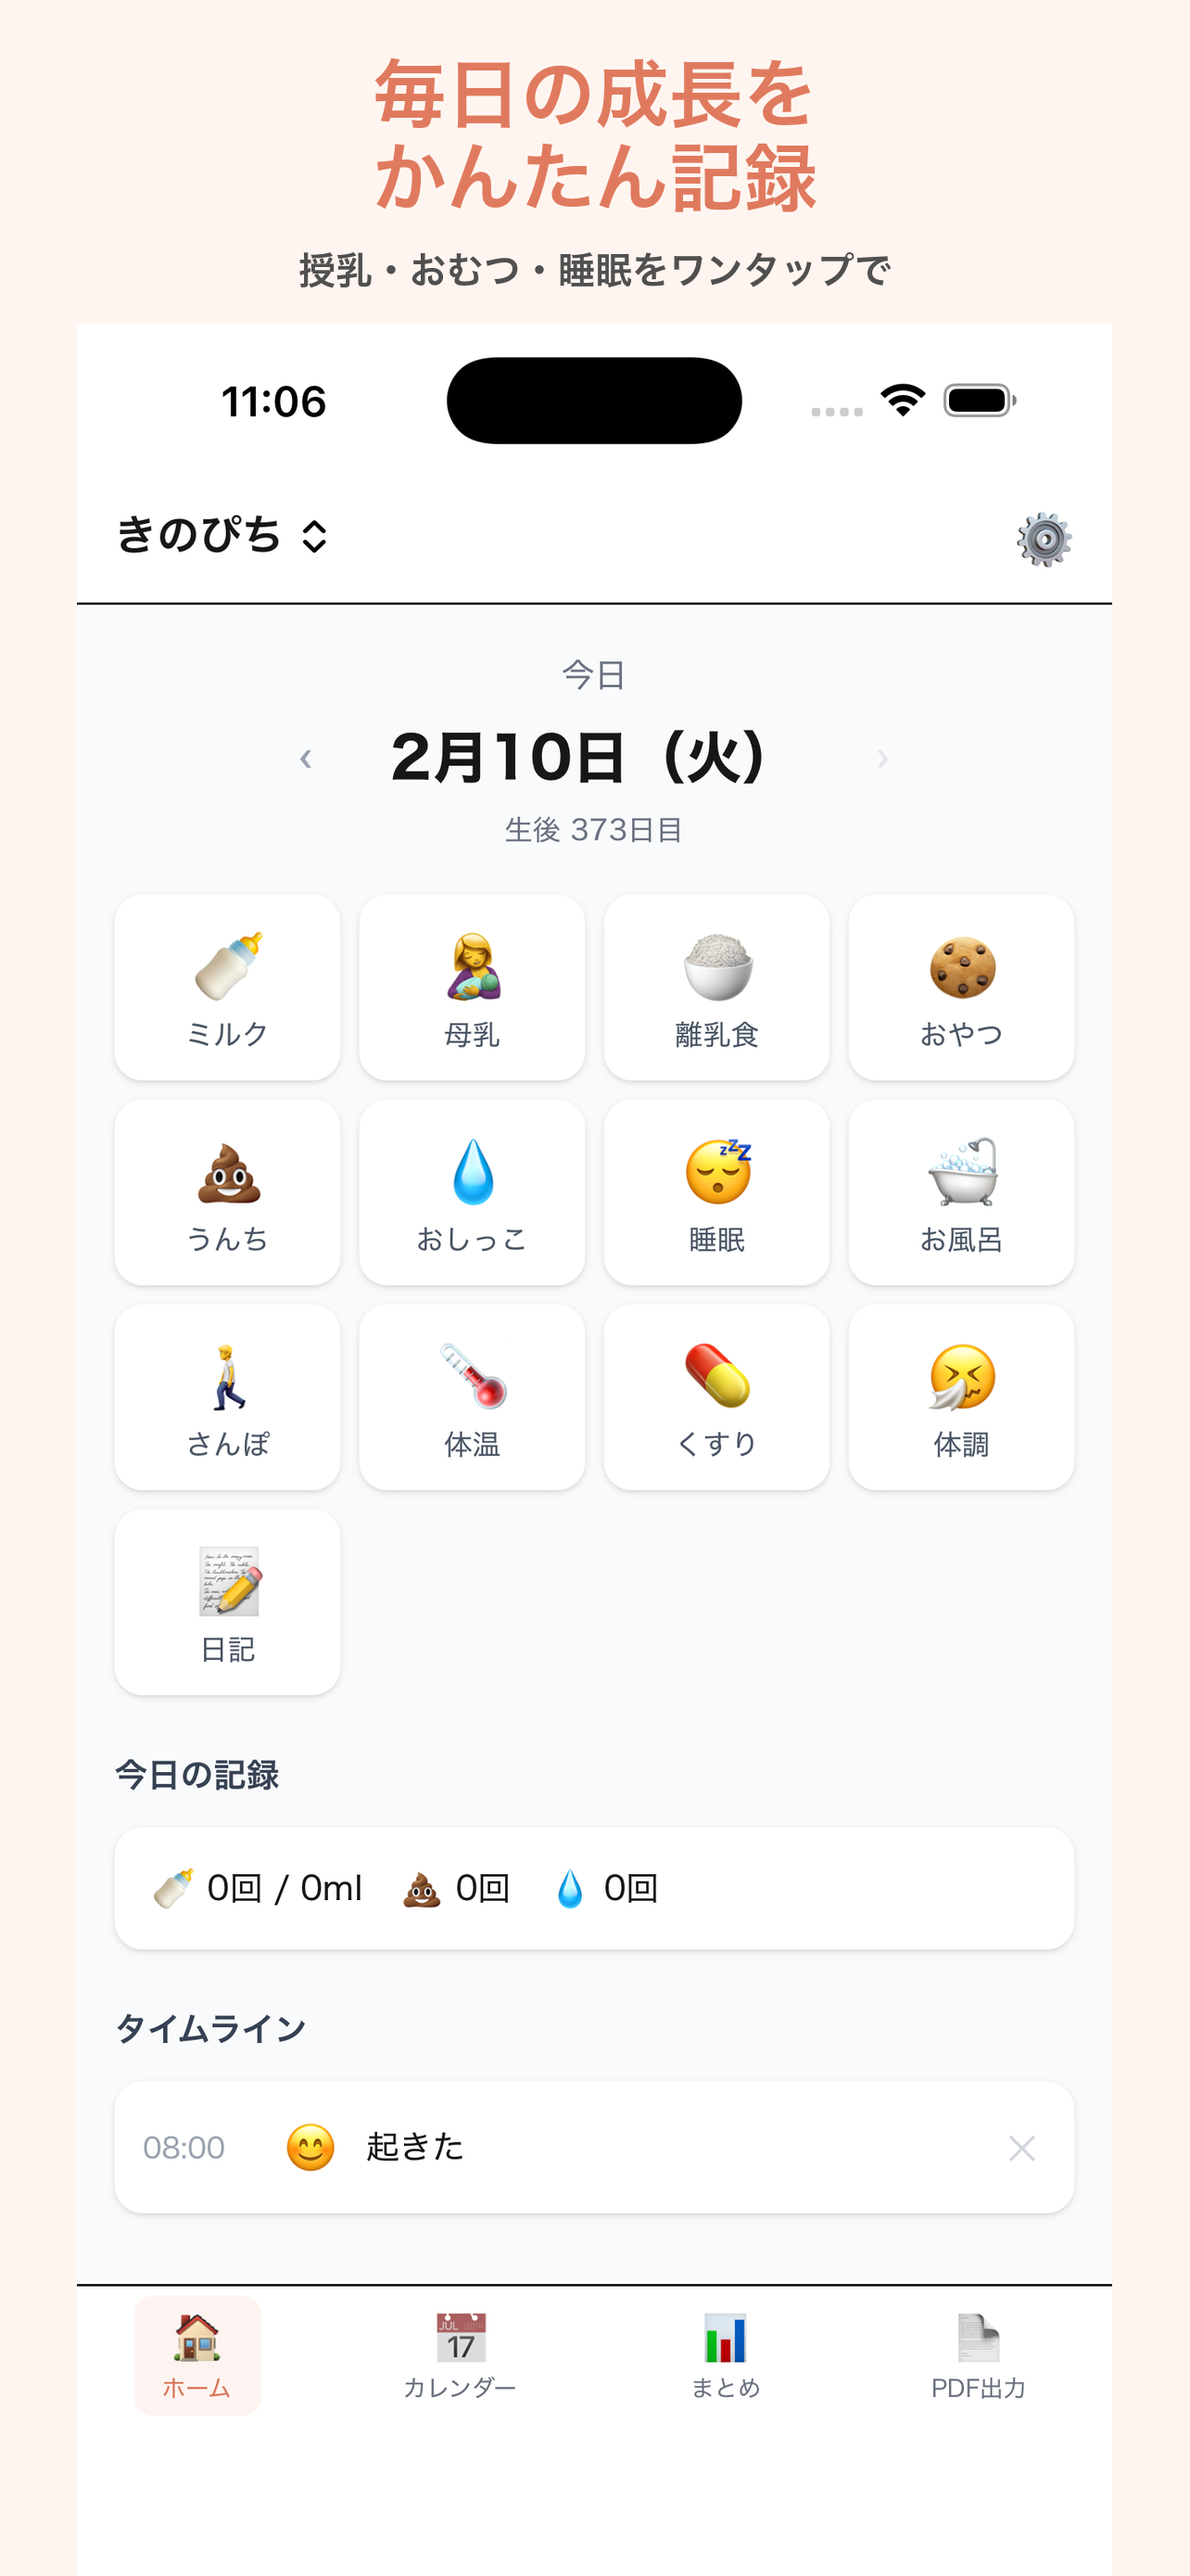
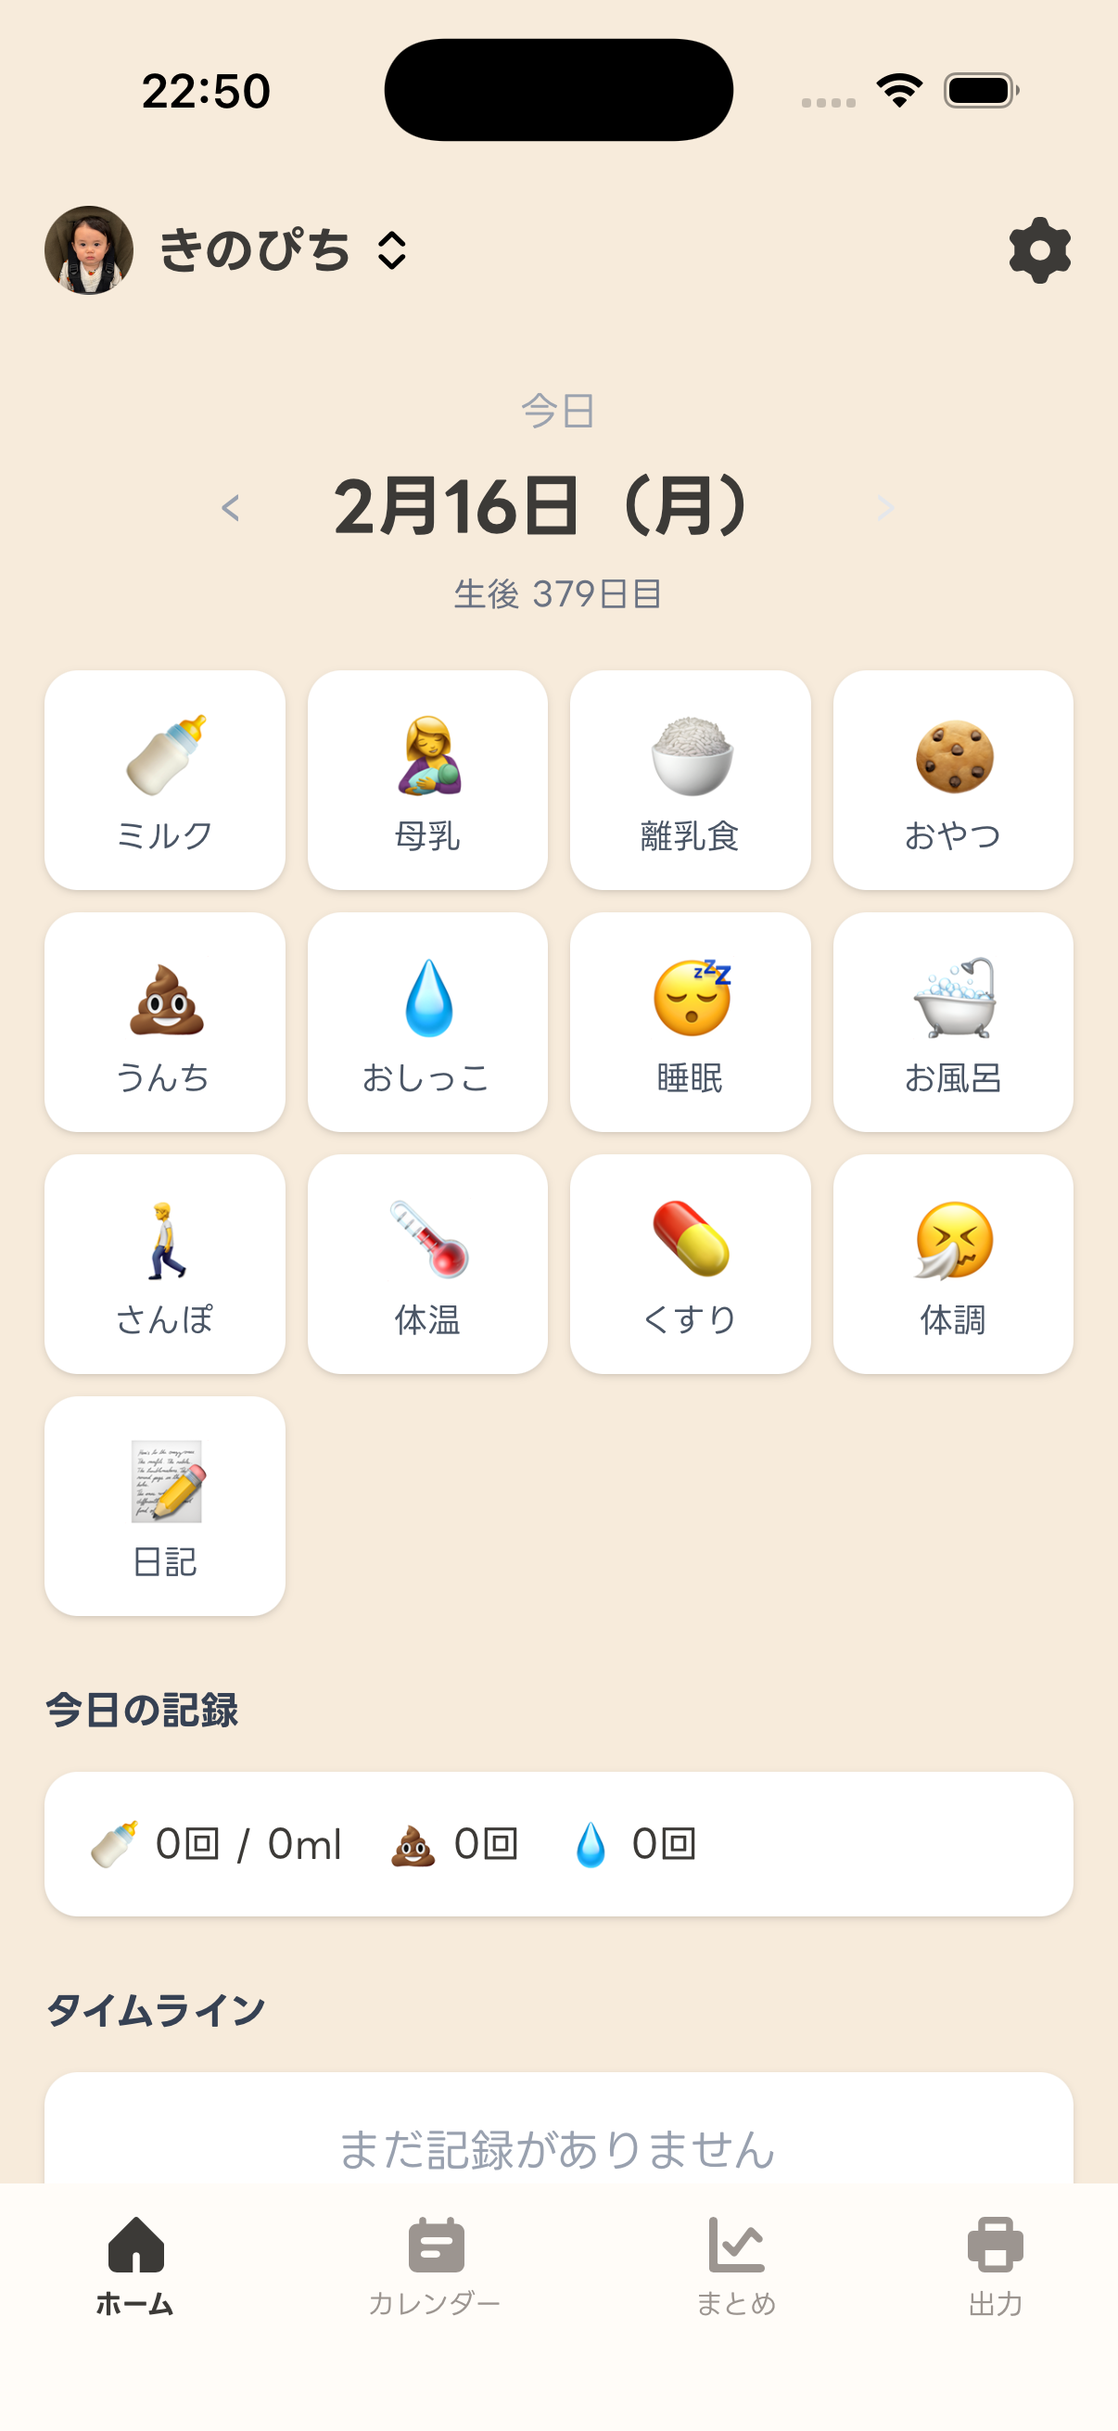
Update screenshots, reduce font weights across all pages
- Replace screenshots with latest iPhone 17 Pro captures
- Add dark mode screenshot (08_darkmode.png)
- Reduce font-weight from 900 to 700 for headings
- Reduce font-weight from 700 to 600/500 for buttons and labels
- Apply consistent font weights to privacy, email-confirmed, password-reset pages
- Ignore capture source folder in .gitignore

diff --git a/src/app/page.tsx b/src/app/page.tsx
@@ -17,12 +17,13 @@ const features = [
 
 const screenshots = [
   { src: "/screenshots/01_home.png", label: "ホーム" },
-  { src: "/screenshots/03_timeline.png", label: "タイムライン" },
-  { src: "/screenshots/02_calendar.png", label: "カレンダー" },
-  { src: "/screenshots/04_summary.png", label: "まとめ" },
-  { src: "/screenshots/06_breastfeeding.png", label: "授乳記録" },
-  { src: "/screenshots/07_diary.png", label: "日記" },
-  { src: "/screenshots/05_pdf.png", label: "PDF出力" },
+  { src: "/screenshots/02_timeline.png", label: "タイムライン" },
+  { src: "/screenshots/03_breastfeeding.png", label: "授乳タイマー" },
+  { src: "/screenshots/05_calendar.png", label: "カレンダー" },
+  { src: "/screenshots/06_summary.png", label: "まとめ" },
+  { src: "/screenshots/04_diary.png", label: "日記" },
+  { src: "/screenshots/07_pdf.png", label: "PDF出力" },
+  { src: "/screenshots/08_darkmode.png", label: "ダークモード" },
 ];
 
 export default function HomePage() {
@@ -33,21 +34,21 @@ export default function HomePage() {
         .header { background: #fff; padding: 16px 0; position: fixed; top: 0; left: 0; right: 0; z-index: 100; border-bottom: 1px solid rgba(0,0,0,0.05); }
         .container { max-width: 1100px; margin: 0 auto; padding: 0 24px; }
         .header-inner { display: flex; justify-content: space-between; align-items: center; }
-        .logo { display: flex; align-items: center; gap: 12px; font-size: 1.4rem; font-weight: 900; color: #D97757; }
+        .logo { display: flex; align-items: center; gap: 12px; font-size: 1.4rem; font-weight: 700; color: #D97757; }
         .logo-icon { width: 40px; height: 40px; background: linear-gradient(135deg, #D97757 0%, #FFB088 100%); border-radius: 12px; display: flex; align-items: center; justify-content: center; font-size: 1.2rem; }
         nav { display: flex; gap: 32px; }
-        nav a { color: #636E72; font-weight: 700; font-size: 0.95rem; transition: color 0.2s; }
+        nav a { color: #636E72; font-weight: 500; font-size: 0.95rem; transition: color 0.2s; }
         nav a:hover { color: #D97757; }
-        .header-cta { background: #D97757; color: #fff; padding: 10px 24px; border-radius: 12px; font-weight: 700; font-size: 0.9rem; transition: transform 0.2s, box-shadow 0.2s; display: inline-block; }
+        .header-cta { background: #D97757; color: #fff; padding: 10px 24px; border-radius: 12px; font-weight: 600; font-size: 0.9rem; transition: transform 0.2s, box-shadow 0.2s; display: inline-block; }
         .header-cta:hover { transform: translateY(-2px); box-shadow: 0 4px 6px -1px rgba(0,0,0,0.1); }
         .hero { background: linear-gradient(180deg, #FFF9F7 0%, #fff 100%); padding: 160px 0 100px; position: relative; overflow: hidden; }
         .hero-content { display: flex; align-items: center; gap: 60px; position: relative; z-index: 1; }
         .hero-text { flex: 1; }
-        .hero-badge { display: inline-flex; align-items: center; gap: 8px; background: #fff; border: 2px solid #D97757; color: #D97757; padding: 8px 16px; border-radius: 50px; font-size: 0.85rem; font-weight: 700; margin-bottom: 24px; }
-        .hero h1 { font-size: 3.2rem; font-weight: 900; line-height: 1.3; margin-bottom: 24px; }
+        .hero-badge { display: inline-flex; align-items: center; gap: 8px; background: #fff; border: 2px solid #D97757; color: #D97757; padding: 8px 16px; border-radius: 50px; font-size: 0.85rem; font-weight: 600; margin-bottom: 24px; }
+        .hero h1 { font-size: 3.2rem; font-weight: 700; line-height: 1.3; margin-bottom: 24px; }
         .hero h1 .hl { color: #D97757; }
         .hero-desc { font-size: 1.2rem; color: #636E72; margin-bottom: 40px; max-width: 480px; }
-        .btn-primary { display: inline-flex; align-items: center; gap: 8px; background: #D97757; color: #fff; padding: 16px 32px; border-radius: 16px; font-weight: 700; font-size: 1.1rem; transition: transform 0.2s, box-shadow 0.2s; box-shadow: 0 4px 0 #C4684A; }
+        .btn-primary { display: inline-flex; align-items: center; gap: 8px; background: #D97757; color: #fff; padding: 16px 32px; border-radius: 16px; font-weight: 600; font-size: 1.1rem; transition: transform 0.2s, box-shadow 0.2s; box-shadow: 0 4px 0 #C4684A; }
         .btn-primary:hover { transform: translateY(-2px); box-shadow: 0 6px 0 #C4684A; }
         .hero-phone { flex: 0 0 320px; }
         .phone-mockup { position: relative; }
@@ -55,35 +56,35 @@ export default function HomePage() {
         .phone-mockup::before { content: ''; position: absolute; top: -20px; left: -20px; right: -20px; bottom: -20px; background: linear-gradient(135deg, #D97757 0%, #FFB088 100%); border-radius: 50px; z-index: -1; opacity: 0.2; }
         .features { padding: 120px 0; background: #fff; }
         .section-header { text-align: center; margin-bottom: 80px; }
-        .section-label { display: inline-block; background: #FFF9F7; color: #D97757; padding: 8px 20px; border-radius: 50px; font-size: 0.9rem; font-weight: 700; margin-bottom: 16px; }
-        .section-header h2 { font-size: 2.5rem; font-weight: 900; margin-bottom: 16px; }
+        .section-label { display: inline-block; background: #FFF9F7; color: #D97757; padding: 8px 20px; border-radius: 50px; font-size: 0.9rem; font-weight: 600; margin-bottom: 16px; }
+        .section-header h2 { font-size: 2.5rem; font-weight: 700; margin-bottom: 16px; }
         .section-header p { color: #636E72; font-size: 1.1rem; }
         .feature-grid { display: grid; grid-template-columns: repeat(2, 1fr); gap: 40px; }
         .feature-card { display: flex; gap: 24px; padding: 32px; background: #FFF9F7; border-radius: 24px; transition: transform 0.3s, box-shadow 0.3s; }
         .feature-card:hover { transform: translateY(-4px); box-shadow: 0 20px 25px -5px rgba(0,0,0,0.1); }
         .feature-icon { flex: 0 0 64px; height: 64px; background: #fff; border-radius: 16px; display: flex; align-items: center; justify-content: center; font-size: 2rem; box-shadow: 0 4px 6px -1px rgba(0,0,0,0.1); }
-        .feature-content h3 { font-size: 1.3rem; font-weight: 700; margin-bottom: 8px; }
+        .feature-content h3 { font-size: 1.3rem; font-weight: 600; margin-bottom: 8px; }
         .feature-content p { color: #636E72; font-size: 0.95rem; }
         .screenshots { padding: 120px 0; background: linear-gradient(180deg, #FFF9F7 0%, #fff 100%); }
         .screenshot-carousel { display: flex; gap: 24px; overflow-x: auto; padding: 40px 0; scroll-snap-type: x mandatory; -webkit-overflow-scrolling: touch; scrollbar-width: none; }
         .screenshot-item { flex: 0 0 280px; scroll-snap-align: center; }
         .screenshot-item img { width: 100%; border-radius: 32px; box-shadow: 0 20px 25px -5px rgba(0,0,0,0.1); transition: transform 0.3s; }
         .screenshot-item:hover img { transform: scale(1.02); }
-        .screenshot-item p { text-align: center; margin-top: 16px; font-weight: 700; color: #636E72; }
+        .screenshot-item p { text-align: center; margin-top: 16px; font-weight: 500; color: #636E72; }
         .cta { padding: 100px 0; background: linear-gradient(135deg, #D97757 0%, #E8967E 100%); text-align: center; color: #fff; }
-        .cta h2 { font-size: 2.5rem; font-weight: 900; margin-bottom: 16px; }
+        .cta h2 { font-size: 2.5rem; font-weight: 700; margin-bottom: 16px; }
         .cta p { font-size: 1.2rem; opacity: 0.9; margin-bottom: 40px; }
         .cta .btn-primary { background: #fff; color: #D97757; box-shadow: 0 4px 0 rgba(0,0,0,0.1); }
         .support { padding: 100px 0; background: #fff; }
         .support-card { max-width: 600px; margin: 0 auto; text-align: center; background: #FFF9F7; padding: 60px 40px; border-radius: 32px; }
         .support-icon { width: 80px; height: 80px; background: #fff; border-radius: 20px; display: flex; align-items: center; justify-content: center; font-size: 2.5rem; margin: 0 auto 24px; box-shadow: 0 4px 6px -1px rgba(0,0,0,0.1); }
-        .support-card h2 { font-size: 2rem; font-weight: 900; margin-bottom: 16px; }
+        .support-card h2 { font-size: 2rem; font-weight: 700; margin-bottom: 16px; }
         .support-card p { color: #636E72; margin-bottom: 32px; }
-        .support-email { display: inline-flex; align-items: center; gap: 8px; background: #D97757; color: #fff; padding: 16px 32px; border-radius: 16px; font-weight: 700; transition: transform 0.2s; box-shadow: 0 4px 0 #C4684A; }
+        .support-email { display: inline-flex; align-items: center; gap: 8px; background: #D97757; color: #fff; padding: 16px 32px; border-radius: 16px; font-weight: 600; transition: transform 0.2s; box-shadow: 0 4px 0 #C4684A; }
         .support-email:hover { transform: translateY(-2px); }
         footer { background: #2D3436; color: rgba(255,255,255,0.7); padding: 60px 0 40px; }
         .footer-content { display: flex; justify-content: space-between; align-items: center; margin-bottom: 40px; }
-        .footer-logo { display: flex; align-items: center; gap: 12px; font-size: 1.2rem; font-weight: 900; color: #fff; }
+        .footer-logo { display: flex; align-items: center; gap: 12px; font-size: 1.2rem; font-weight: 700; color: #fff; }
         .footer-links { display: flex; gap: 32px; }
         .footer-links a { color: rgba(255,255,255,0.7); font-size: 0.9rem; transition: color 0.2s; }
         .footer-links a:hover { color: #fff; }

diff --git a/src/app/privacy/page.tsx b/src/app/privacy/page.tsx
@@ -11,11 +11,11 @@ export default function PrivacyPage() {
       <style>{`
         .prv-header { background: #fff; border-bottom: 1px solid rgba(0,0,0,0.05); }
         .prv-header-inner { max-width: 800px; margin: 0 auto; padding: 0 24px; height: 64px; display: flex; align-items: center; }
-        .prv-logo { display: flex; align-items: center; gap: 12px; color: #D97757; font-weight: 900; font-size: 1.25rem; }
+        .prv-logo { display: flex; align-items: center; gap: 12px; color: #D97757; font-weight: 700; font-size: 1.25rem; }
         .prv-logo-icon { width: 40px; height: 40px; background: linear-gradient(135deg, #D97757 0%, #FFB088 100%); border-radius: 12px; display: flex; align-items: center; justify-content: center; font-size: 1.2rem; }
         .prv-main { padding: 64px 0 96px; background: #FFF9F7; }
         .prv-container { max-width: 700px; margin: 0 auto; padding: 0 24px; }
-        .prv-main h1 { font-size: 1.875rem; font-weight: 900; text-align: center; margin-bottom: 48px; }
+        .prv-main h1 { font-size: 1.875rem; font-weight: 700; text-align: center; margin-bottom: 48px; }
         .prv-card { background: #fff; border-radius: 24px; padding: 40px 48px; box-shadow: 0 1px 3px rgba(0,0,0,0.1); }
         .prv-card p { color: #636E72; margin-bottom: 16px; }
         .prv-section { margin-bottom: 32px; }

diff --git a/src/app/email-confirmed/page.tsx b/src/app/email-confirmed/page.tsx
@@ -13,7 +13,7 @@ export default function EmailConfirmedPage() {
         .wrapper { width: 100%; max-width: 420px; text-align: center; }
         .card { background: #fff; border-radius: 24px; padding: 48px 40px; box-shadow: 0 10px 15px -3px rgba(0,0,0,0.1); }
         .icon-box { width: 80px; height: 80px; background: #FFF9F7; border-radius: 16px; display: flex; align-items: center; justify-content: center; font-size: 2.5rem; margin: 0 auto 24px; }
-        .card h1 { font-size: 1.5rem; font-weight: 900; margin-bottom: 12px; }
+        .card h1 { font-size: 1.5rem; font-weight: 700; margin-bottom: 12px; }
         .card .desc { color: #636E72; margin-bottom: 32px; line-height: 1.8; font-size: 0.95rem; }
         .steps { background: #FFF9F7; border-radius: 16px; padding: 20px; margin-bottom: 32px; text-align: left; }
         .steps p { font-size: 0.9rem; font-weight: 700; margin-bottom: 8px; }

diff --git a/src/app/password-reset/page.tsx b/src/app/password-reset/page.tsx
@@ -13,7 +13,7 @@ export default function PasswordResetPage() {
         .wrapper { width: 100%; max-width: 420px; text-align: center; }
         .card { background: #fff; border-radius: 24px; padding: 48px 40px; box-shadow: 0 10px 15px -3px rgba(0,0,0,0.1); }
         .icon-box { width: 80px; height: 80px; background: #FFF9F7; border-radius: 16px; display: flex; align-items: center; justify-content: center; font-size: 2.5rem; margin: 0 auto 24px; }
-        .card h1 { font-size: 1.5rem; font-weight: 900; margin-bottom: 12px; }
+        .card h1 { font-size: 1.5rem; font-weight: 700; margin-bottom: 12px; }
         .card .desc { color: #636E72; margin-bottom: 32px; line-height: 1.8; font-size: 0.95rem; }
         .steps { background: #FFF9F7; border-radius: 16px; padding: 20px; margin-bottom: 32px; text-align: left; }
         .steps p { font-size: 0.9rem; font-weight: 700; margin-bottom: 8px; }
